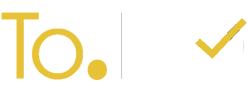
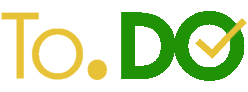
update files and images

Changed region(s): [[0.4798, 0.1087, 0.9879, 0.8913]]

diff --git a/TodoList/css/styles.css b/TodoList/css/styles.css
@@ -1,14 +1,18 @@
 body {
-  color: #fff;
+  background: #000;
+  color: #444;
   font-family: Tahoma;
   display: flex;
   height: 96vh;
-  background-color: #000;
 }
 
 #app {
+  background: #fff;
   width: 512px;
   margin: auto;
+  padding: 20px;
+  border-radius: 10px;
+  border:solid 1px #fff;
 }
 
 .center {
@@ -29,18 +33,18 @@ input {
   margin: 4px;
   padding: 4px;
   font-size: 15px;
-  border-radius: 5px;
+  border-radius: 4px;
   border: 1px solid #ccc;
   outline: none;
 }
 
 button {
-  background-color: #E7C236;
+  width: 50%;
+  background-color: #4c4;
   font-size: 15px;
   color: white;
   padding: 4px;
   margin: 4px;
-  width: 50%;
   border-radius: 5px;
   border: none;
   outline: none;
@@ -57,11 +61,4 @@ p {
 
 .alternative {
   background-color: #44c;
-}
-
-#loading {
-  position:absolute;
-  top:calc(50% - 100px);
-  left: calc(50% - 100px);
-  z-index: 1;
 }

diff --git a/TodoList/index.html b/TodoList/index.html
@@ -55,9 +55,10 @@
     <div id="userContent" class="startHidden">
       <hr>
       <div id="userInfo">
-        <p></p>
+        <p>vc esta logado</p>
       </div>
     </div>
+
   </div>
 
   <!--Recursos do Firebase-->

diff --git a/TodoList/js/utils.js b/TodoList/js/utils.js
@@ -42,7 +42,7 @@ function showUserContent(){
 }
 
 //Oculta conteudo ao usuário não autenticado
-function showUserContent(){
+function showAuth(){
   hideItem(userContent)
   showItem(auth)
 }
